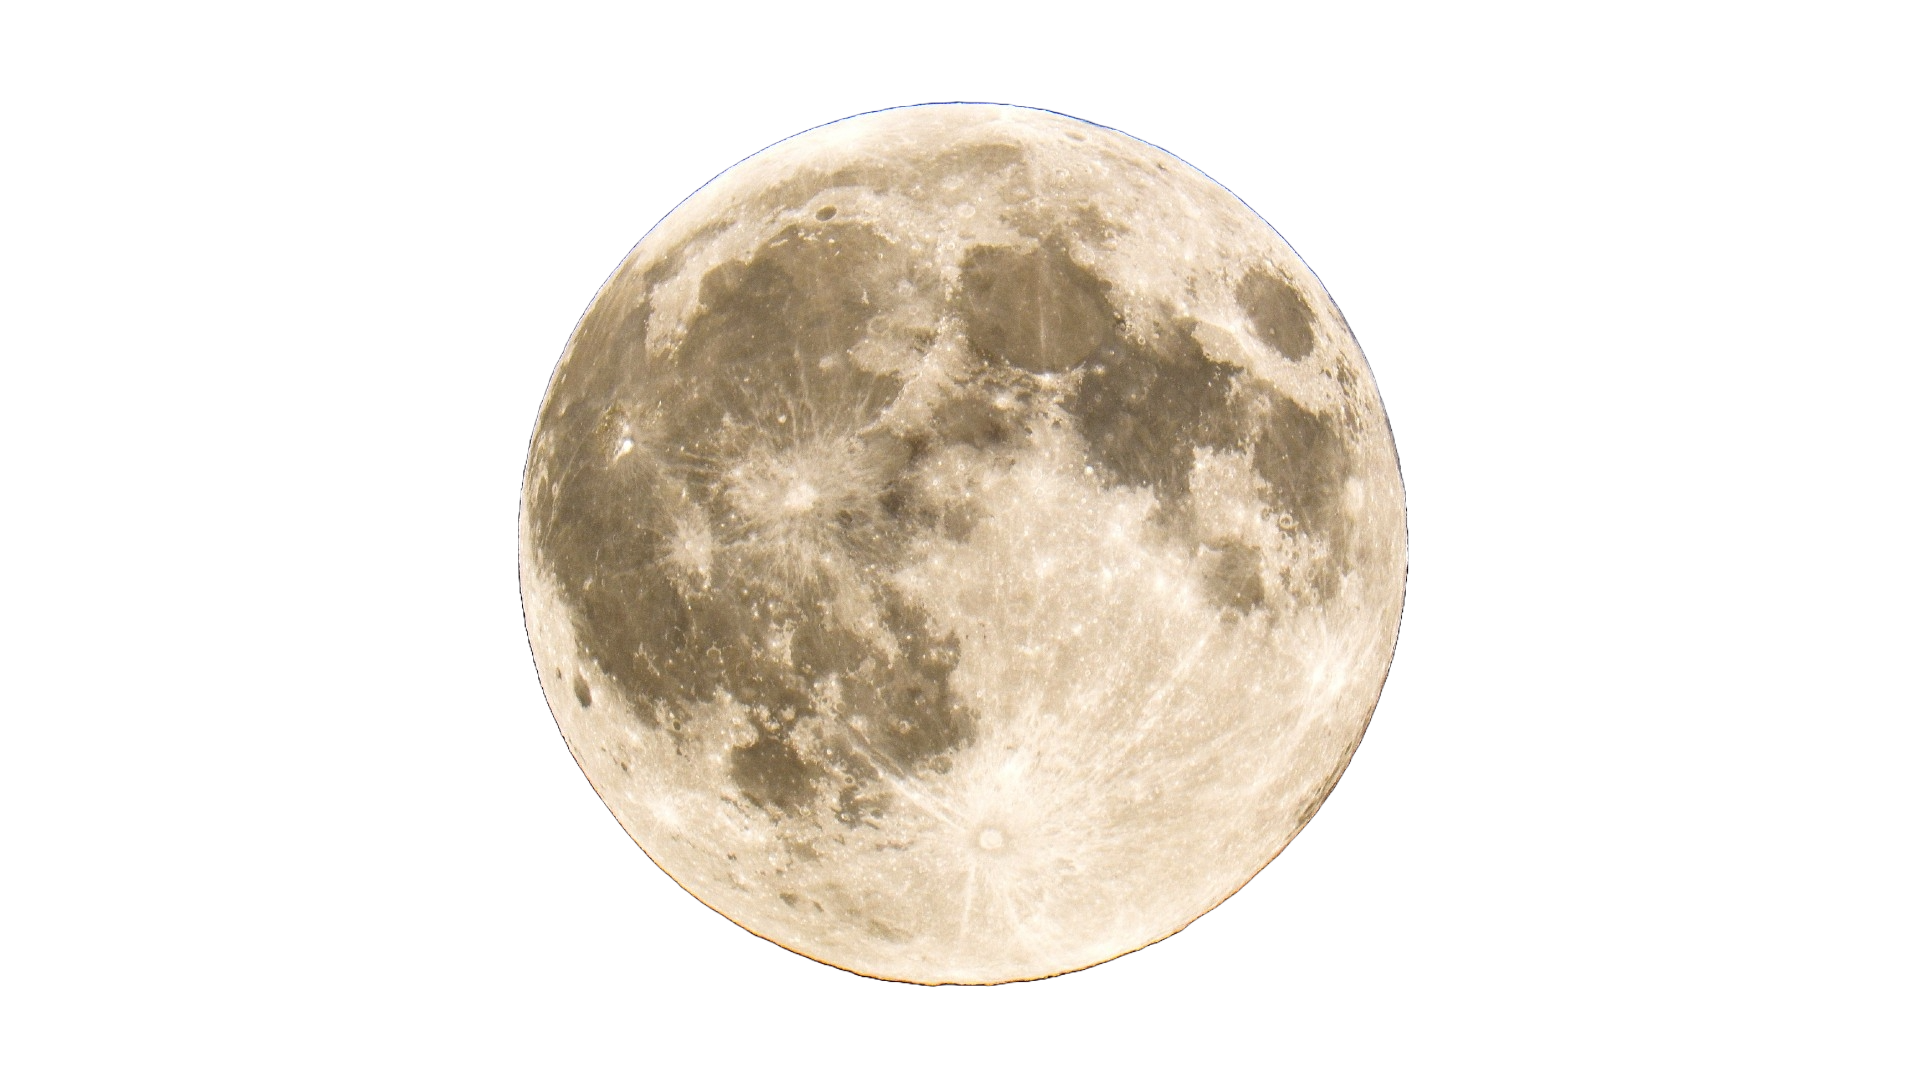
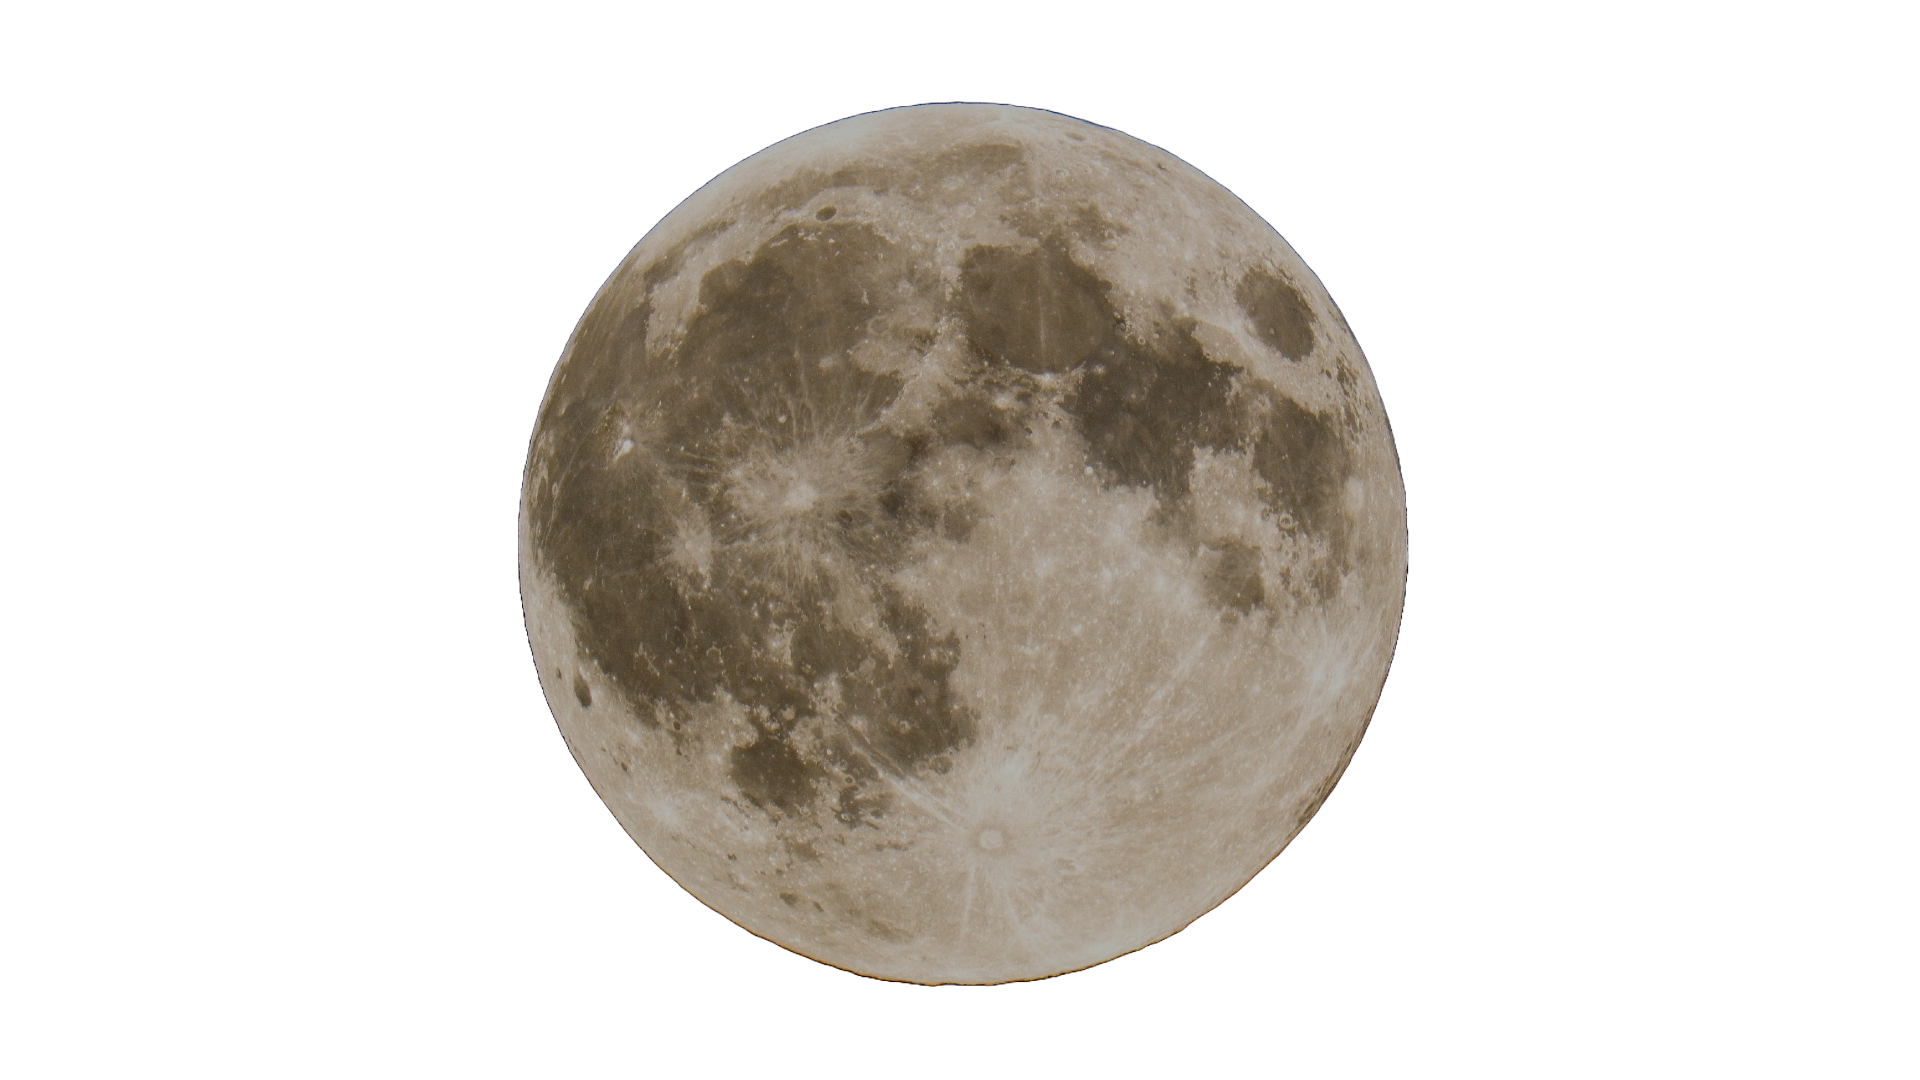
navbar styling

Changed region(s): [[0.25, 0.0917, 0.75, 0.9167]]

diff --git a/src/components/Navbar.css b/src/components/Navbar.css
@@ -3,13 +3,15 @@
   top: 0;
   width: 100%;
   background-color: rgb(197, 197, 197);
-  padding-top: 20px;
-  padding-bottom: 25px;
+  padding-top: 10px;
+  padding-bottom: 15px;
   border-bottom-left-radius: 3vw;
   border-bottom-right-radius: 3vw;
   border-color: black;
   border-bottom-style: solid;
   z-index: 1;
+  background-image: url("../images/header.png");
+  background-size: contain;
 }
 
 .navBarNav {
@@ -19,10 +21,15 @@
   align-items: center;
 }
 .navLinkDiv {
+  padding: 1em;
+  border-radius: 80%;
+  backdrop-filter: blur(10px); /* Adjust blur as needed */
 }
 .navLinkDiv:hover {
-  box-shadow: 0 0 2em 1em rgba(0, 0, 0, 0.4);
+  transform: translateY(-2px);
+  box-shadow: 0 6px 8px rgba(0, 0, 0, 0.8);
 }
 .navLink {
   text-decoration: none;
+  font-weight: bold;
 }

diff --git a/src/components/About.css b/src/components/About.css
@@ -1,10 +1,10 @@
 .aboutDiv {
+  margin-top: 1.3em;
   text-align: center;
   padding-bottom: 0.8vw;
   max-width: 70%;
   height: 120vh;
-  background-image: linear-gradient(rgba(0, 0, 0, 0.3), rgba(0, 0, 0, 0.3)),
-    url("../images/moon2.png");
+  background-image: url("../images/moon2.png");
   background-size: 230vh;
   background-repeat: no-repeat;
   background-position: center;
@@ -12,7 +12,8 @@
 }
 .name {
   margin-top: 15vh;
-  text-shadow: 1em 1em 1em black;
+  text-shadow: 1em 1em 1em black, 1px 1px 0 white, -1px 1px 0 white,
+    1px -1px 0 white, -1px -1px 0 white;
   margin-bottom: 2vh;
 }
 .headshotImg {

diff --git a/src/components/Contact.js b/src/components/Contact.js
@@ -4,7 +4,7 @@ function Contact() {
   return (
     <div className="contactDiv" id="contact">
       <p>
-        Please reach out to me here:
+        Please contact me here:
         <br />
         <a href="mailto:AnthonyJosephJordan@gmail.com<">
           AnthonyJosephJordan@gmail.com
